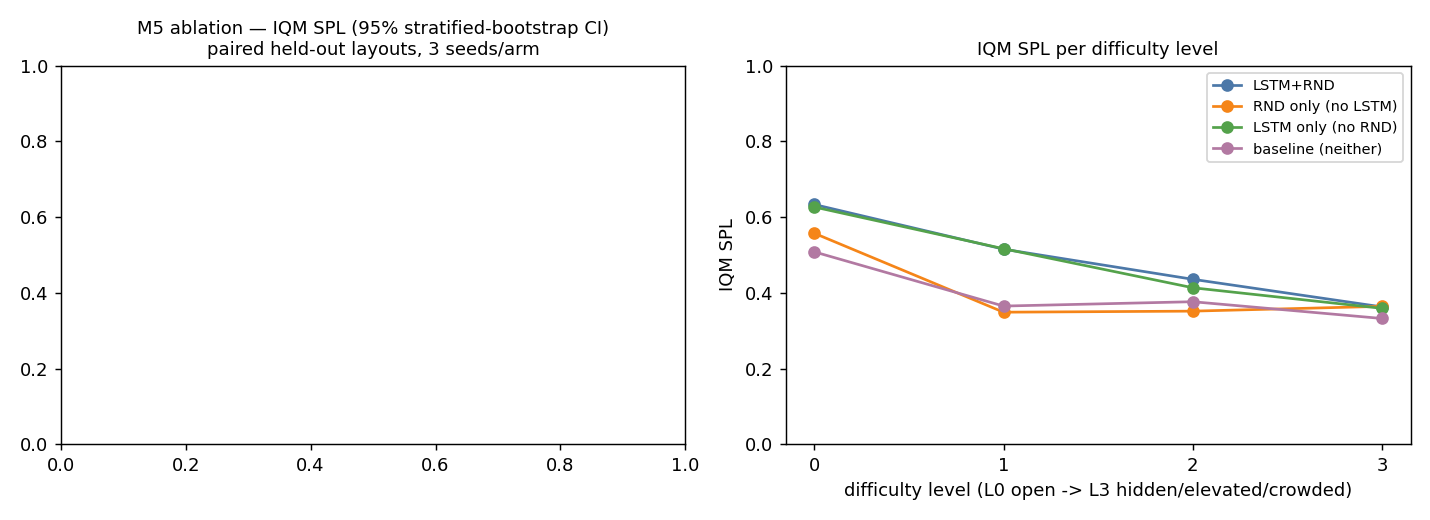
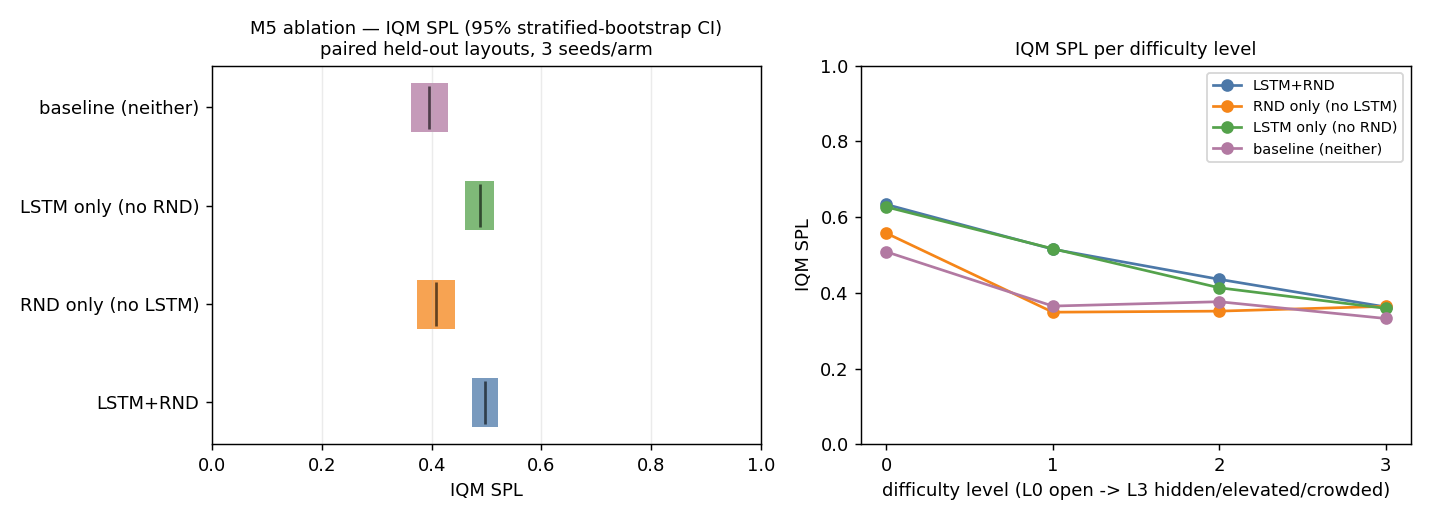
chore(M6v2): final-review fixes - retire cued residue, SPL honesty note, eval naming, PoI reproducibility, folder metas

diff --git a/training/eval/plot_m5_search.py b/training/eval/plot_m5_search.py
@@ -21,7 +21,7 @@ import pandas as pd
 import matplotlib
 matplotlib.use("Agg")
 import matplotlib.pyplot as plt
-from rliable import library as rly, metrics, plot_utils
+from rliable import library as rly, metrics
 
 CSV = "training/eval/m5_search.csv"
 ARMS = ["m5_primary", "m5_nolstm", "m5_nornd", "m5_baseline"]
@@ -87,11 +87,23 @@ def main():
     # --- figure ---
     fig, (ax0, ax1) = plt.subplots(1, 2, figsize=(11, 4))
     order = [a for a in ARMS if a in scores]
-    plot_utils.plot_interval_estimates(
-        {LABELS[a]: agg[a] for a in order}, {LABELS[a]: cis[a] for a in order},
-        metric_names=["IQM SPL"], algorithms=[LABELS[a] for a in order], ax=ax0)
+
+    # Panel 0: IQM SPL per arm, 95% stratified-bootstrap CI. Hand-rolled barh+vlines (ported from the M6
+    # ablation's plotter) instead of rliable's plot_utils.plot_interval_estimates: that helper always opens
+    # its OWN new figure internally (plt.subplots() inside the function) and never uses an ax= kwarg, so the
+    # bars it draws never land on this script's ax0 -- the panel was saved blank. Metric is unchanged (still
+    # IQM, not mean); only the rendering is fixed.
+    for i, a in enumerate(order):
+        lo, hi = _ci(cis[a])
+        ax0.barh(i, hi - lo, left=lo, height=0.5, color=COLORS[a], alpha=0.75)
+        ax0.vlines(_scalar(agg[a]), i - 0.22, i + 0.22, color="k", alpha=0.6)
+    ax0.set_yticks(range(len(order)))
+    ax0.set_yticklabels([LABELS[a] for a in order])
+    ax0.set_xlim(0, 1)
+    ax0.set_xlabel("IQM SPL")
     ax0.set_title("M5 ablation — IQM SPL (95% stratified-bootstrap CI)\n"
                   "paired held-out layouts, 3 seeds/arm", fontsize=10)
+    ax0.grid(True, axis="x", alpha=0.25)
 
     levels = sorted(df.level.unique())
     for a in order:

diff --git a/NavSim/Assets/Scripts/Editor/M6SearchEval.cs b/NavSim/Assets/Scripts/Editor/M6SearchEval.cs
@@ -18,14 +18,14 @@ using NavSim.Runtime;
 // and neither the terrain nor the color draw depends on the sensor type -> every arm sees an identical
 // (layout, colors, target, positions) tuple.
 //
-// M6 metric = the CUED target. The harness captures target0 + the two decoy0 positions as Vector3 VALUES right
+// M6 metric = the fixed-colour target. The harness captures target0 + the two decoy0 positions as Vector3 VALUES right
 // after placement, and detects outcomes GEOMETRICALLY and ALWAYS HARD (independent of the training soften->harden):
 //   success    = first reach within GoalRadius of target0;
 //   decoy_visit = 1 and STOP if the agent first comes within GoalRadius of either decoy0 (a wrong-color pick).
 //
 // LIFECYCLE (from M5, EXTENDED for M6): the harness OWNS the episode/level boundary so OnEpisodeBegin fires once and
 // never re-rolls mid-episode — this needs BOTH agent.MaxStep=0 (no max-step EndEpisode) AND env.EvalMode=true (M6
-// added a decoy-touch EndEpisode M5 never had; EvalMode suppresses it so a decoy doesn't re-roll the arena/cue).
+// added a decoy-touch EndEpisode M5 never had; EvalMode suppresses it so a decoy doesn't re-roll the arena/target).
 // SetTerrainLevel(lvl) is the sole layout driver. SetModel-ORDERING FIX (Phase-0.2): step the agent once
 // (EnvironmentStep) BEFORE the first SetModel so the pixel CameraSensor's texture2D is allocated.
 public static class M6SearchEval
@@ -117,7 +117,7 @@ public static class M6SearchEval
         if (env == null || terrain == null || agent == null) { Debug.LogError("[M6Eval] Missing env/terrain/agent."); return; }
         SetupHarness(env, agent);
 
-        // (1) Paired reproducibility: same seed -> identical target + decoys + cue, twice.
+        // (1) Paired reproducibility: same seed -> identical target + decoys + colour, twice.
         (Vector3 t1, Vector3[] d1, Color c1) = PlaceSeeded(env, agent, 123);
         (Vector3 t2, Vector3[] d2, Color c2) = PlaceSeeded(env, agent, 123);
         bool paired = Approximately(t1, t2) && d1.Length == d2.Length && Approximately(d1[0], d2[0])
@@ -138,7 +138,7 @@ public static class M6SearchEval
         // (4) EvalMode suppresses the decoy EndEpisode (the CRITICAL fix). At L1 — where DecoyRules.DecoyEndsEpisode
         // is true — put a decoy right in front of the agent, drive ONE real step, and confirm the decoy path FIRED
         // (TouchedDecoy) yet the target did NOT re-roll (GoalPositionFor unchanged). Without EvalMode this step
-        // would EndEpisode → OnEpisodeBegin → re-roll the arena/cue mid-episode → corrupt the metric.
+        // would EndEpisode → OnEpisodeBegin → re-roll the arena/target mid-episode → corrupt the metric.
         UnityEngine.Random.InitState(77); env.SeedColorRng(77);
         env.SetTerrainLevel(1);
         Physics.SyncTransforms();
@@ -172,13 +172,13 @@ public static class M6SearchEval
     {
         Physics.simulationMode = SimulationMode.Script;
         agent.MaxStep = 0;      // harness owns the boundary; no OnEpisodeBegin max-step re-roll
-        env.EvalMode = true;    // AND a decoy touch must NOT EndEpisode (that re-rolls the arena/cue mid-episode);
+        env.EvalMode = true;    // AND a decoy touch must NOT EndEpisode (that re-rolls the arena/target mid-episode);
                                 // the harness detects reach-vs-decoy geometrically, always hard, across all arms
         Step();                 // SetModel-ordering fix: one step BEFORE any SetModel so the CameraSensor texture allocates
     }
 
-    // Seed BOTH RNGs identically, place a fresh triad + colors, return the captured target/decoys/cue as VALUES.
-    private static (Vector3 target, Vector3[] decoys, Color cue) PlaceSeeded(NavEnvironment env, NavAgent agent, int seed)
+    // Seed BOTH RNGs identically, place a fresh triad + colors, return the captured target/decoys/colour as VALUES.
+    private static (Vector3 target, Vector3[] decoys, Color targetColor) PlaceSeeded(NavEnvironment env, NavAgent agent, int seed)
     {
         UnityEngine.Random.InitState(seed);
         env.SeedColorRng(seed);
@@ -200,7 +200,7 @@ public static class M6SearchEval
         Vector3 start = agent.transform.position;
         Vector3 target0 = env.GoalPositionFor(agent);   // Vector3 value copies — never the live goal Transforms
         Vector3[] decoy0 = env.DecoyPositions();
-        Color cue = env.TargetColorRgb;
+        Color targetColor = env.TargetColorRgb;
         float sp = terrain.ShortestPathLength(start, target0);
         // PAIRING fingerprint (arm-INDEPENDENT): the layout+colors+NavMesh-oracle for this (seed,lvl,ep). Diffing
         // the three arms' m6_pairing_<arm>.csv streams must be byte-identical -> proves the paired-eval guarantee
@@ -208,7 +208,7 @@ public static class M6SearchEval
         fp?.AppendLine(string.Format(CultureInfo.InvariantCulture,
             "{0},{1},{2},{3:F3},{4:F3},{5:F3},{6:F3},{7:F3},{8:F3},{9:F3},{10:F3},{11:F3},{12:F3},{13:F3},{14:F3},{15:F4}",
             seed, lvl, ep, target0.x, target0.y, target0.z, decoy0[0].x, decoy0[0].y, decoy0[0].z,
-            decoy0[1].x, decoy0[1].y, decoy0[1].z, cue.r, cue.g, cue.b, sp));
+            decoy0[1].x, decoy0[1].y, decoy0[1].z, targetColor.r, targetColor.g, targetColor.b, sp));
         EpMetrics m = RunEpisode(env, agent, target0, decoy0);
         float spl = (m.success && m.pathLen > 0f && sp > 0f)
             ? Mathf.Min(1f, sp / Mathf.Max(m.pathLen, sp)) : 0f;

diff --git a/training/eval/plot_m6_search.py b/training/eval/plot_m6_search.py
@@ -142,6 +142,12 @@ def main():
     if "m6_rayc" in order and "m6_ray1" in order:
         poi_pairs["rayc_vs_ray1"] = (
             cell_matrix(df, "m6_rayc", "spl"), cell_matrix(df, "m6_ray1", "spl"))
+    # PRIMARY, per-episode construction (the convention M5 used -- seeds=runs, held-out episodes=tasks,
+    # no cell-averaging), added alongside the 12-cell rows above (which stay unchanged). Reproduces the
+    # ~0.713 figure disclosed in docs/M6-results.md's PoI-construction-sensitivity note.
+    if "m6_pixel" in order and "m6_ray1" in order:
+        poi_pairs["pixel_vs_ray1_PER_EPISODE"] = (
+            seed_matrix(df, "m6_pixel"), seed_matrix(df, "m6_ray1"))
     poi, poi_ci = {}, {}
     if poi_pairs:
         poi, poi_ci = rly.get_interval_estimates(poi_pairs, metrics.probability_of_improvement, reps=POI_REPS)

diff --git a/docs/M6-results.md b/docs/M6-results.md
@@ -109,6 +109,9 @@ This also rules out the failure mode where an apparent "pixel win" is really som
 
 3. **Steelman - the strong outcome, honestly framed.** Success rate is **statistically indistinguishable** between `pixel` and `rayC`: the CIs overlap (0.723-0.762), and rayC is nominally ahead of pixel at every single difficulty level (L0 .747 vs .653, L1 .760 vs .693, L2 .747 vs .733, L3 .840 vs .773) as well as overall (0.773 vs 0.713).
 Where pixel is nominally ahead is **path efficiency**: mean SPL 0.398 vs 0.348.
+That pooled edge is not spread evenly across difficulty - per-level mean SPL (pixel vs rayC) is 0.356 vs 0.375 at L0, 0.321 vs 0.341 at L1, 0.425 vs 0.312 at L2, and 0.490 vs 0.364 at L3.
+The entire pooled SPL edge is produced at L2/L3; at the confound-free L0/L1 levels, rayC nominally leads pixel on SPL as well.
+It sits exactly in the elevated-terrain zone the sensor-coverage caveat below flags, which reinforces the "match, not a win" reading of the steelman rather than a clean pixel advantage.
 PoI(SPL, pixel > rayC) = 0.632 - above chance (0.5) but below the pre-registered 0.75 "strong effect" bar, so this SPL edge is a real-but-not-decisive signal at n=3 seeds, not a clean win.
 Read honestly: **the from-scratch CNN matched the hand-told upper bound on the primary metric (success) and edged it, non-decisively, on efficiency** - "pixels learned what rays must be told," matched rather than merely approached, without overclaiming a win rayC's own numbers don't support.
 
@@ -132,6 +135,7 @@ At elevated L2/L3 targets, ray arms get zero shaping toward the goal until they 
 This is a real perception difference, orthogonal to colour, and it inflates pixel's *apparent* edge at the harder, elevated levels if read carelessly.
 The colour-discrimination claim (pixel vs ray1, pixel vs rayC) should be read off **L0/L1** - flat levels where both sensor types see the goals equally and only colour perception differs, which is exactly where the B1/B2/B3 pre-registered gates were measured.
 Reassuringly, the coverage gap does **not** appear to have manufactured pixel's headline edge: `rayC` - a *ray* arm - wins L3 outright (0.840, the best success rate of any arm at any level), which would not happen if elevation coverage alone were carrying the result.
+The steelman's SPL edge is a case in point of the caveat, not an exception to it: pixel's pooled mean-SPL lead over rayC (0.398 vs 0.348) is produced entirely at L2/L3, and rayC nominally leads pixel on SPL at both L0 and L1.
 
 - **Seed variance is real and not small at n=3.** Pixel's per-seed success is 0.59 / 0.81 / 0.74 - a 0.22 spread.
 This is reported plainly rather than smoothed into the point estimate; the Wilson CI on the pooled 300 episodes (0.660, 0.762) already reflects this dispersion, but a reader should not treat 0.713 as a tight number.